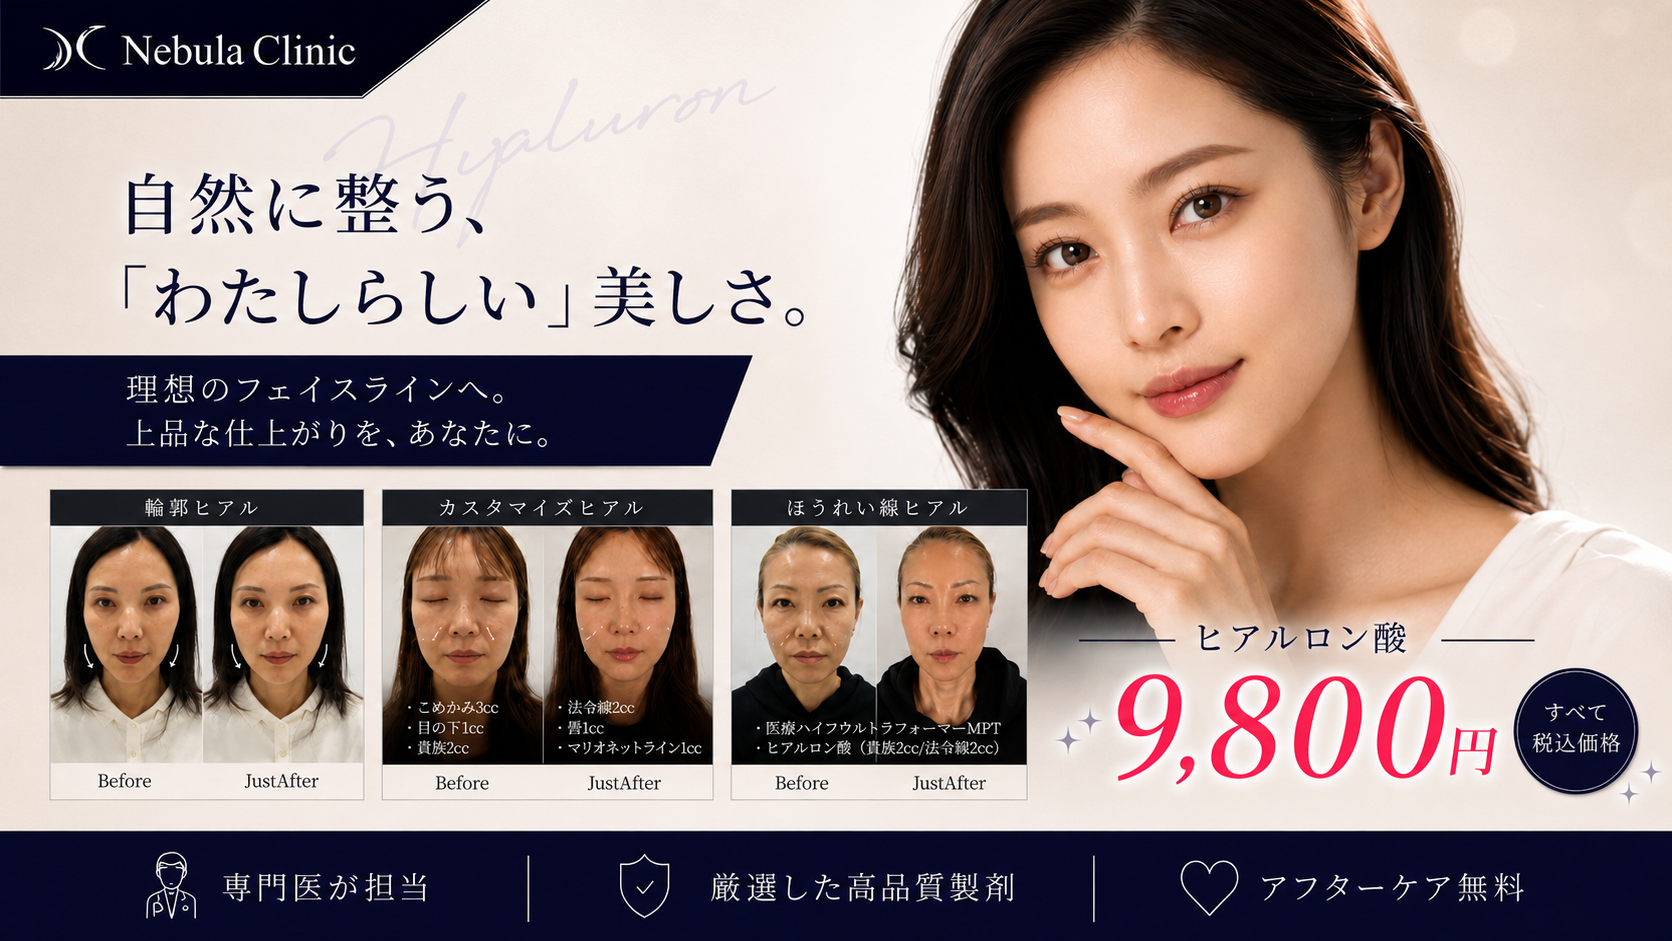
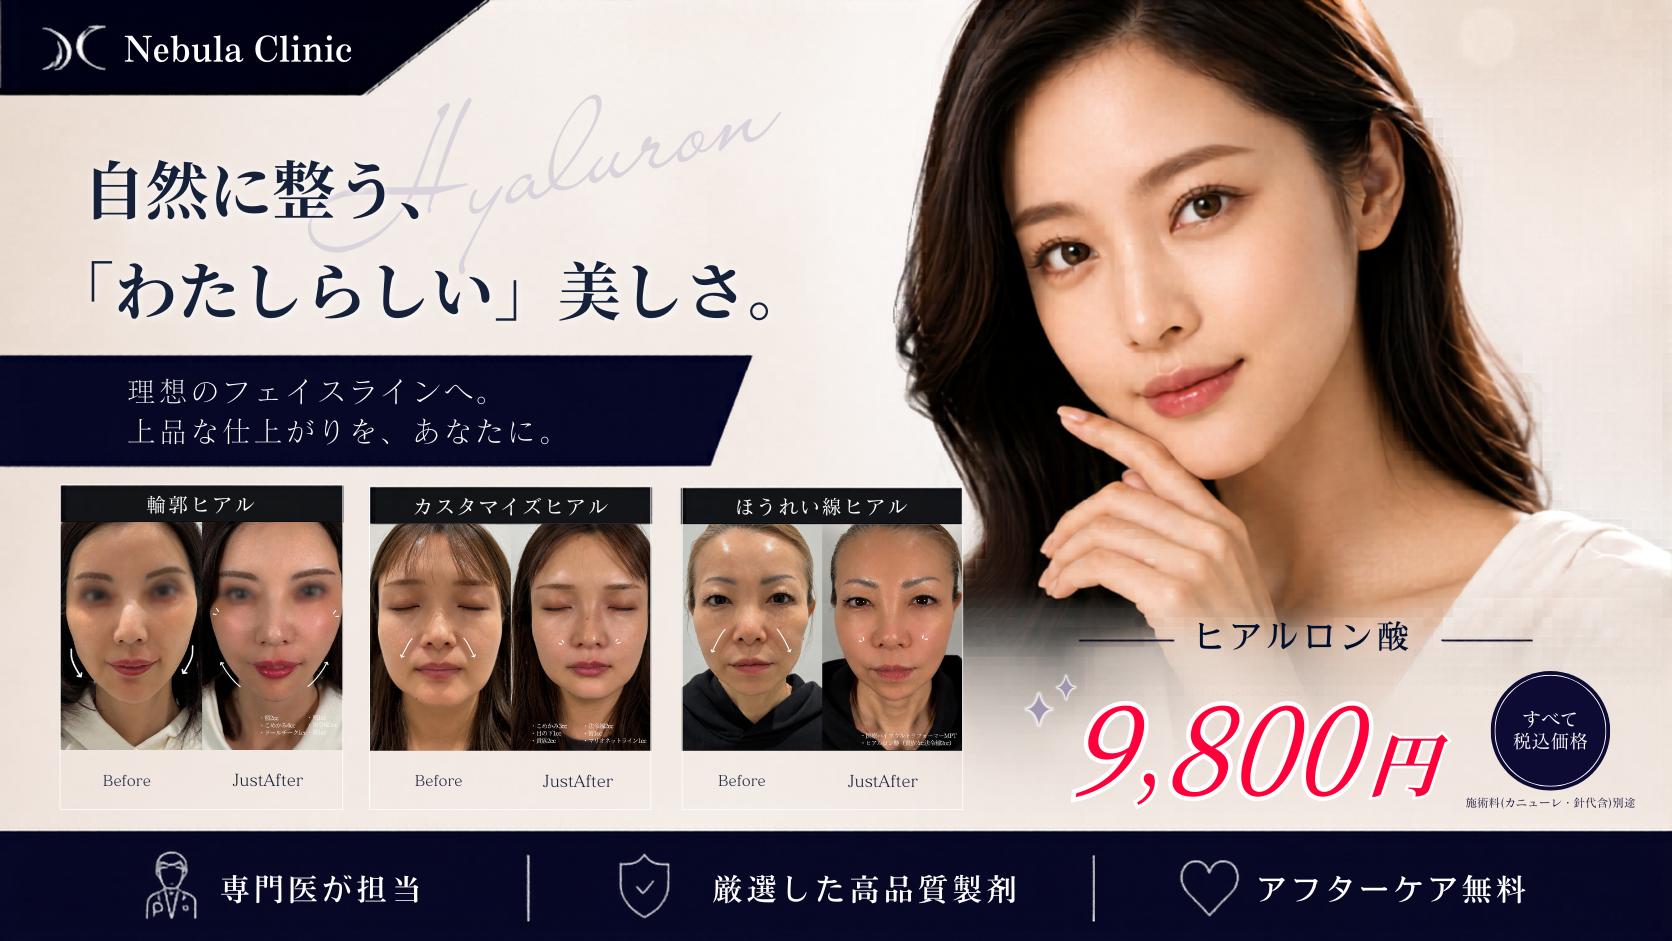
Replace FV images with new PC/SP versions

diff --git a/Hyaluron LP.html b/Hyaluron LP.html
@@ -68,8 +68,8 @@
     <section class="fv" aria-label="ファーストビュー">
       <picture>
         <source media="(min-width: 880px)" srcset="assets/fv-pc.png" type="image/png" />
-        <source media="(max-width: 879px)" srcset="assets/fv-sp.webp" type="image/webp" />
-        <img class="fv__img" src="assets/fv-sp.png" alt="Nebula Clinic ヒアルロン酸 — 自然に整う、わたしらしい美しさ" />
+        <source media="(max-width: 879px)" srcset="assets/fv-sp.png" type="image/png" />
+        <img class="fv__img" src="assets/fv-pc.png" alt="Nebula Clinic ヒアルロン酸 — 自然に整う、わたしらしい美しさ" />
       </picture>
       <div class="fv__cta-wrap">
         <a class="cta cta--primary" href="https://reservation.medical-force.com/c/4a7a018bbb624b30a34610d92e61a5f1?landing_event_id=2cfa3225-1e08-4f30-b72d-8ef38a2a5c15&_gl=1*oysdcn*_gcl_au*MTY2MDA2ODQ5LjE3Nzg0ODMxOTU.*_ga*MzE3OTk0ODUuMTc3ODQ4MzE5Ng..*_ga_W604VMFVQ4*czE3Nzg0ODMxOTUkbzEkZzAkdDE3Nzg0ODMxOTUkajYwJGwwJGgw" target="_blank" rel="noopener" data-track="fv-primary">

diff --git a/index.html b/index.html
@@ -68,8 +68,8 @@
     <section class="fv" aria-label="ファーストビュー">
       <picture>
         <source media="(min-width: 880px)" srcset="assets/fv-pc.png" type="image/png" />
-        <source media="(max-width: 879px)" srcset="assets/fv-sp.webp" type="image/webp" />
-        <img class="fv__img" src="assets/fv-sp.png" alt="Nebula Clinic ヒアルロン酸 — 自然に整う、わたしらしい美しさ" />
+        <source media="(max-width: 879px)" srcset="assets/fv-sp.png" type="image/png" />
+        <img class="fv__img" src="assets/fv-pc.png" alt="Nebula Clinic ヒアルロン酸 — 自然に整う、わたしらしい美しさ" />
       </picture>
       <div class="fv__cta-wrap">
         <a class="cta cta--primary" href="https://reservation.medical-force.com/c/4a7a018bbb624b30a34610d92e61a5f1?landing_event_id=2cfa3225-1e08-4f30-b72d-8ef38a2a5c15&_gl=1*oysdcn*_gcl_au*MTY2MDA2ODQ5LjE3Nzg0ODMxOTU.*_ga*MzE3OTk0ODUuMTc3ODQ4MzE5Ng..*_ga_W604VMFVQ4*czE3Nzg0ODMxOTUkbzEkZzAkdDE3Nzg0ODMxOTUkajYwJGwwJGgw" target="_blank" rel="noopener" data-track="fv-primary">
